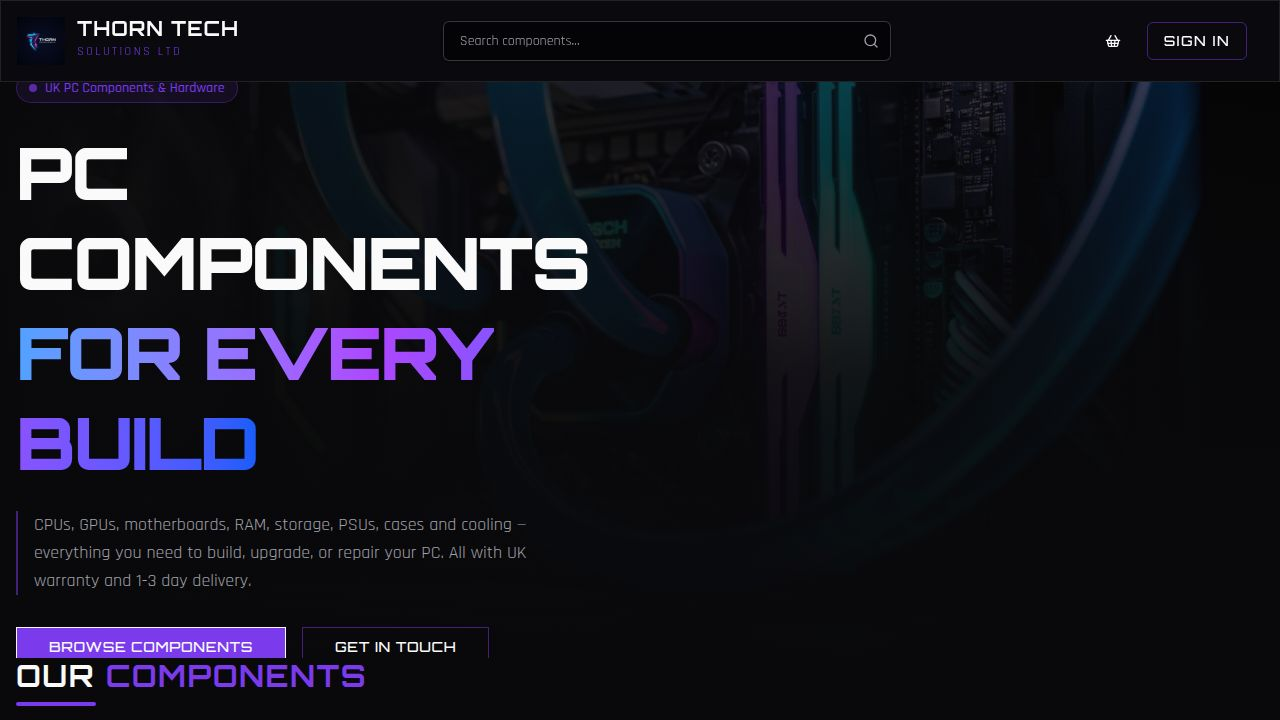
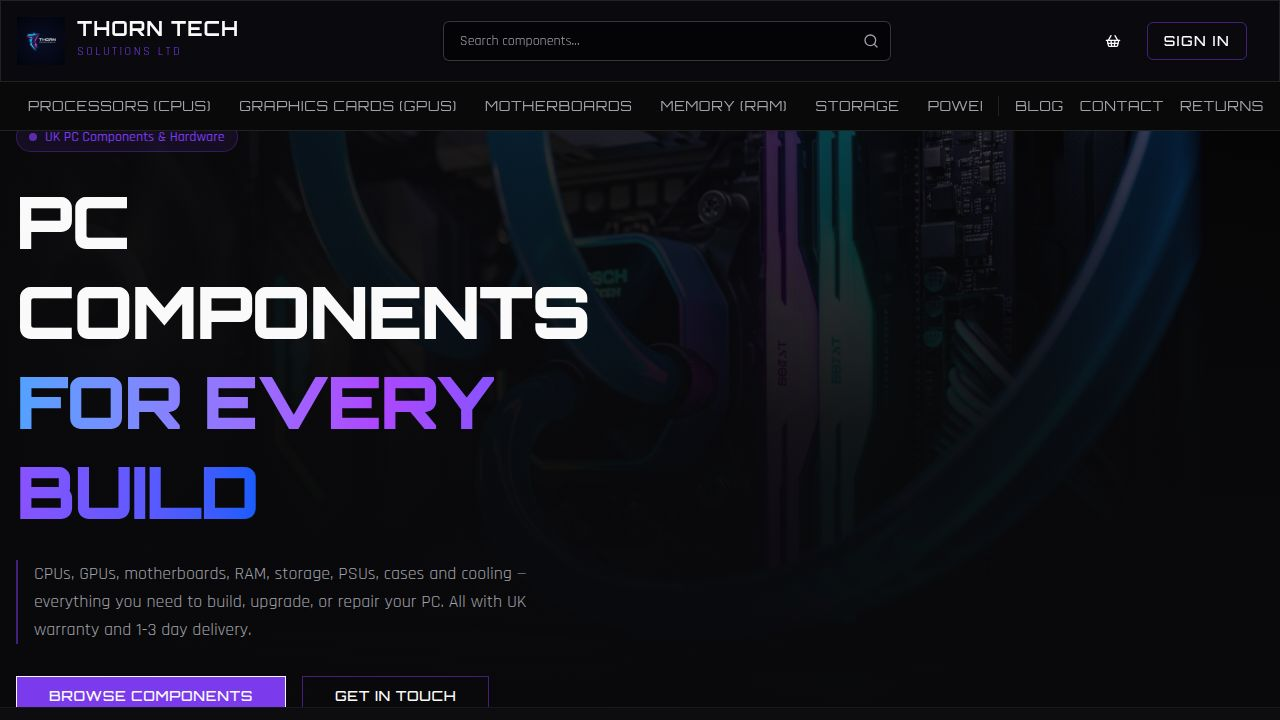
Improve navigation bar by displaying categories in separate dropdowns
Refactor CategoryDropdown component to handle individual category navigation and implement horizontal scrolling with navigation buttons. Update home page to integrate the new CategoryDropdown component and add a separator to the navigation bar.

Replit-Commit-Author: Agent
Replit-Commit-Session-Id: f4758047-96ac-4521-84a1-d2afd101b68a
Replit-Commit-Checkpoint-Type: full_checkpoint
Replit-Commit-Event-Id: f21f1661-e12e-497d-910b-0a887ce0796b
Replit-Commit-Screenshot-Url: https://storage.googleapis.com/screenshot-production-us-central1/21e51a16-30ac-4a97-8f1a-bc2a0049ee33/f4758047-96ac-4521-84a1-d2afd101b68a/5nGctOg
Replit-Helium-Checkpoint-Created: true

diff --git a/client/src/components/CategoryDropdown.tsx b/client/src/components/CategoryDropdown.tsx
@@ -1,7 +1,7 @@
 import { Link } from "wouter";
 import { useQuery } from "@tanstack/react-query";
-import { ChevronDown } from "lucide-react";
-import { useState, useRef, useEffect } from "react";
+import { ChevronDown, ChevronLeft, ChevronRight } from "lucide-react";
+import { useRef, useState } from "react";
 import type { Category } from "@shared/schema";
 
 export default function CategoryDropdown() {
@@ -10,58 +10,63 @@ export default function CategoryDropdown() {
     queryFn: () => fetch("/api/categories").then(r => r.json()),
   });
 
-  const [open, setOpen] = useState(false);
-  const dropRef = useRef<HTMLDivElement>(null);
+  const scrollRef = useRef<HTMLDivElement>(null);
+  const [canScrollLeft, setCanScrollLeft] = useState(false);
+  const [canScrollRight, setCanScrollRight] = useState(false);
 
-  useEffect(() => {
-    const handler = (e: MouseEvent) => {
-      if (dropRef.current && !dropRef.current.contains(e.target as Node)) setOpen(false);
-    };
-    document.addEventListener("mousedown", handler);
-    return () => document.removeEventListener("mousedown", handler);
-  }, []);
+  const checkScroll = () => {
+    const el = scrollRef.current;
+    if (!el) return;
+    setCanScrollLeft(el.scrollLeft > 0);
+    setCanScrollRight(el.scrollLeft < el.scrollWidth - el.clientWidth - 1);
+  };
 
-  const cols = categories.length > 12 ? 4 : categories.length > 6 ? 3 : 2;
+  const scroll = (dir: "left" | "right") => {
+    const el = scrollRef.current;
+    if (!el) return;
+    el.scrollBy({ left: dir === "left" ? -200 : 200, behavior: "smooth" });
+  };
 
   return (
-    <div className="relative" ref={dropRef}>
-      <button
-        onClick={() => setOpen(!open)}
-        className="flex items-center gap-1.5 text-sm font-display font-bold tracking-wider text-white hover:text-primary transition-colors whitespace-nowrap py-3"
-        data-testid="button-categories-dropdown"
-      >
-        COMPONENTS
-        <ChevronDown className={`w-4 h-4 transition-transform duration-200 ${open ? "rotate-180" : ""}`} />
-      </button>
+    <div className="relative flex items-center flex-1 min-w-0">
+      {canScrollLeft && (
+        <button
+          onClick={() => scroll("left")}
+          className="absolute left-0 z-10 h-full px-1 bg-gradient-to-r from-background to-transparent"
+        >
+          <ChevronLeft className="w-4 h-4 text-muted-foreground" />
+        </button>
+      )}
 
-      {open && (
-        <>
-          <div className="fixed inset-0 top-[calc(5rem+3rem)] bg-black/40 z-40" onClick={() => setOpen(false)} />
-          <div className="absolute top-full left-0 mt-0 z-50 min-w-[320px]">
-            <div className="bg-[#0f0f14] border border-white/10 rounded-lg shadow-2xl shadow-black/60 overflow-hidden">
-              <div className="px-4 py-3 border-b border-white/5">
-                <span className="text-xs font-display tracking-widest text-primary uppercase">Browse by Category</span>
-              </div>
-              <div className={`grid gap-0 ${cols === 4 ? "grid-cols-4" : cols === 3 ? "grid-cols-3" : "grid-cols-2"}`} style={{ minWidth: cols === 4 ? "480px" : cols === 3 ? "400px" : "320px" }}>
-                {categories.map(cat => (
-                  <Link
-                    key={cat.id}
-                    href={`/category/${cat.slug}`}
-                    onClick={() => setOpen(false)}
-                  >
-                    <div
-                      className="flex items-center gap-2 px-4 py-3 hover:bg-primary/10 border-b border-r border-white/5 transition-colors cursor-pointer group"
-                      data-testid={`link-dropdown-category-${cat.slug}`}
-                    >
-                      <ChevronDown className="w-3 h-3 text-primary/50 -rotate-90 group-hover:text-primary transition-colors" />
-                      <span className="text-sm text-muted-foreground group-hover:text-white transition-colors whitespace-nowrap">{cat.name}</span>
-                    </div>
-                  </Link>
-                ))}
-              </div>
+      <div
+        ref={scrollRef}
+        onScroll={checkScroll}
+        onLoad={checkScroll}
+        className="flex items-center gap-1 overflow-x-auto scrollbar-hide"
+        style={{ scrollbarWidth: "none", msOverflowStyle: "none" }}
+      >
+        {categories.map(cat => (
+          <Link
+            key={cat.id}
+            href={`/category/${cat.slug}`}
+          >
+            <div
+              className="flex items-center gap-1.5 px-3 py-1.5 rounded-md text-sm font-display tracking-wider text-muted-foreground hover:text-white hover:bg-white/5 transition-all cursor-pointer whitespace-nowrap"
+              data-testid={`link-category-tab-${cat.slug}`}
+            >
+              {cat.name.toUpperCase()}
             </div>
-          </div>
-        </>
+          </Link>
+        ))}
+      </div>
+
+      {canScrollRight && (
+        <button
+          onClick={() => scroll("right")}
+          className="absolute right-0 z-10 h-full px-1 bg-gradient-to-l from-background to-transparent"
+        >
+          <ChevronRight className="w-4 h-4 text-muted-foreground" />
+        </button>
       )}
     </div>
   );

diff --git a/client/src/pages/home.tsx b/client/src/pages/home.tsx
@@ -31,8 +31,9 @@ export default function Home() {
 
       <div className="sticky top-20 z-40 border-b border-white/10 bg-background/95 backdrop-blur-md">
         <div className="container mx-auto px-4">
-          <div className="flex items-center h-12 gap-6">
+          <div className="flex items-center h-12 gap-4">
             <CategoryDropdown />
+            <div className="h-5 w-px bg-white/10 flex-shrink-0"></div>
             <Link href="/blog" className="text-sm font-display tracking-wider text-muted-foreground hover:text-primary transition-colors whitespace-nowrap">BLOG</Link>
             <Link href="/contact" className="text-sm font-display tracking-wider text-muted-foreground hover:text-primary transition-colors whitespace-nowrap">CONTACT</Link>
             <Link href="/returns" className="text-sm font-display tracking-wider text-muted-foreground hover:text-primary transition-colors whitespace-nowrap">RETURNS</Link>
